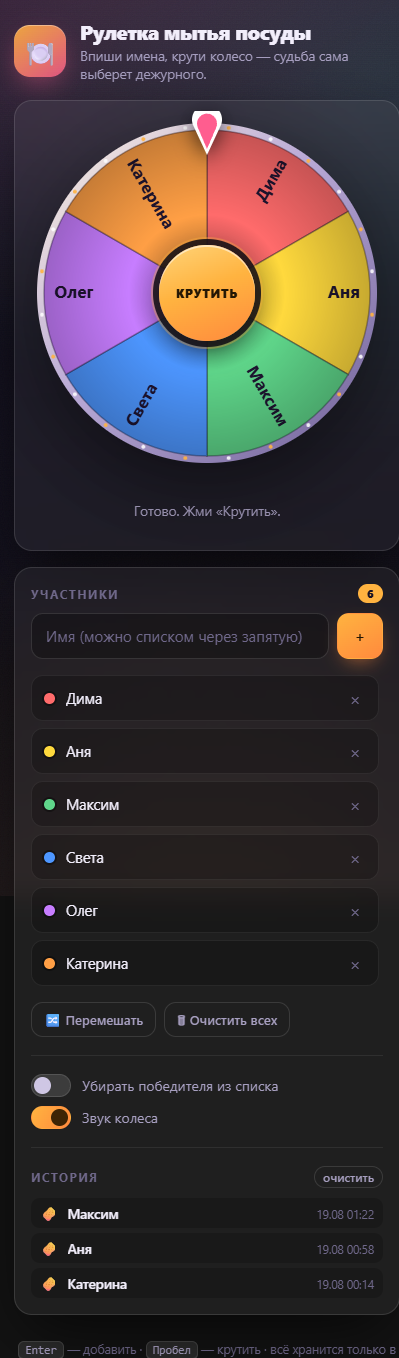
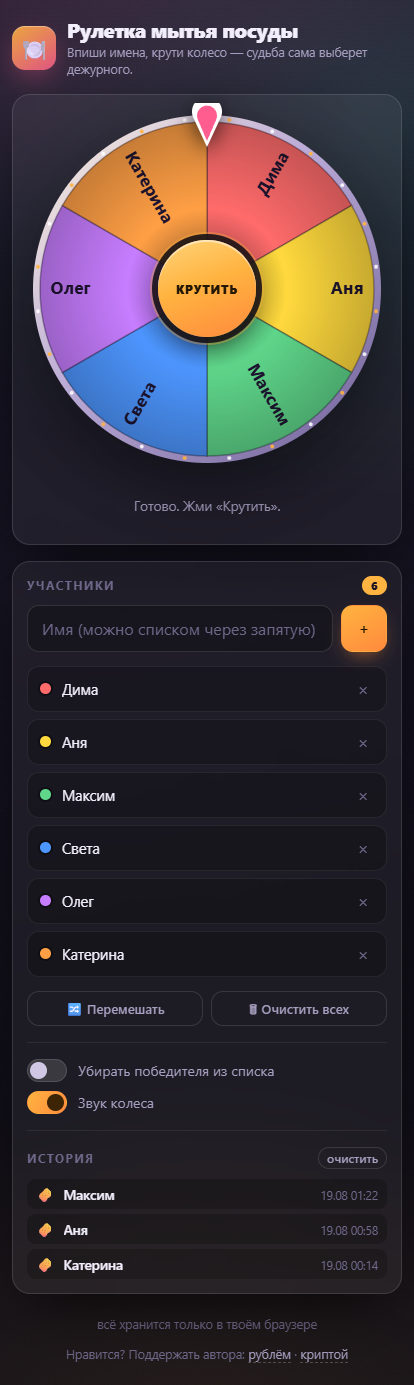
README: разделы про мобильную версию и поддержку
- новый раздел «Мобильная версия»: портрет и альбом, квадратное колесо
  через min(100%,520px,78dvh), тач-цели 44px, сброс залипшего :hover,
  safe-area, поле ввода 16px против зума iOS, запуск с домашнего экрана
- раздел «Поддержка» со ссылками CloudTips и Telegram-кошелёк
- переснят assets/screenshot-mobile.png под новую вёрстку, добавлен
  assets/screenshot-landscape.png для альбомной ориентации
- бейдж размера обновлён до 36 KB, в таблицу кастомизации добавлены
  мобильные брейкпоинты

Заодно в index.html добавлен современный mobile-web-app-capable рядом
с apple-mobile-web-app-capable — Chrome ругался в консоли на устаревший тег.

Claude-Session: https://claude.ai/code/session_01QDBhF91jdbMEvzmgpJz84q

diff --git a/index.html b/index.html
@@ -7,6 +7,7 @@
 <meta name="description" content="Крути рулетку — узнай, кто сегодня моет посуду.">
 <meta name="theme-color" content="#12101c">
 <meta name="color-scheme" content="dark">
+<meta name="mobile-web-app-capable" content="yes">
 <meta name="apple-mobile-web-app-capable" content="yes">
 <meta name="apple-mobile-web-app-status-bar-style" content="black-translucent">
 <meta name="apple-mobile-web-app-title" content="Рулетка">

diff --git a/README.md b/README.md
@@ -7,9 +7,10 @@
 
 [![Демо](https://img.shields.io/badge/демо-открыть%20рулетку-ff9f45?style=for-the-badge&logo=github)](https://dosash.github.io/dish-roulette/)
 
-![Один файл](https://img.shields.io/badge/один%20файл-33%20KB-4d96ff)
+![Один файл](https://img.shields.io/badge/один%20файл-36%20KB-4d96ff)
 ![Зависимостей](https://img.shields.io/badge/зависимостей-0-5fd68a)
 ![Работает офлайн](https://img.shields.io/badge/работает-офлайн-c77dff)
+![Телефон и десктоп](https://img.shields.io/badge/телефон%20и-десктоп-ff5d8f)
 ![Лицензия MIT](https://img.shields.io/badge/лицензия-MIT-ffd93d)
 
 ### → **[dosash.github.io/dish-roulette](https://dosash.github.io/dish-roulette/)** ←
@@ -44,8 +45,8 @@
 ⌨ **Горячие клавиши.** `Enter` — добавить имя, `Пробел` — крутить,
 `Esc` — закрыть окно победителя.
 
-📱 **Телефон и десктоп.** Адаптивная вёрстка, поддержка
-`prefers-reduced-motion` для тех, кому анимации мешают.
+📱 **Полноценный телефон.** Не «сжатый десктоп», а отдельная вёрстка —
+[подробности ниже](#мобильная-версия).
 
 💾 **Ничего не теряется.** Список, настройки и история лежат в `localStorage`
 браузера. Закрыл вкладку — при следующем открытии всё на месте.
@@ -66,11 +67,74 @@
 
 ---
 
+## Мобильная версия
+
+Телефон — главный сценарий: рулетку обычно открывают прямо на кухне. Поэтому
+мобильная вёрстка сделана отдельно, а не получена сжатием десктопной.
+
+<table>
+<tr>
+<td width="42%" valign="top">
+
+**Портрет — одна колонка**
+
+Колесо сверху, под ним участники, настройки и история. Списки на узких
+экранах идут без внутреннего скролла: прокручивается вся страница целиком,
+а не рамка внутри рамки.
+
+</td>
+<td width="58%" valign="top">
+
+<img src="assets/screenshot-mobile.png" alt="Портретная вёрстка на телефоне">
+
+</td>
+</tr>
+</table>
+
+**Альбом — две колонки.** Повернул телефон — колесо уезжает влево, список
+встаёт справа, подзаголовок прячется. Иначе на 390 пикселях высоты пришлось
+бы бесконечно скроллить.
+
+![Альбомная вёрстка на телефоне](assets/screenshot-landscape.png)
+
+**Колесо всегда квадратное и всегда влезает.** Размер считается по меньшей
+из трёх величин: `width: min(100%, 520px, 78dvh)` — то есть ширина
+контейнера, разумный максимум и доля высоты экрана. В альбоме доля
+уменьшается до `62dvh`. Единицы `dvh`, а не `vh` — иначе адресная строка
+Safari при скрытии обрезала бы колесо.
+
+**Тач-цели.** В `@media (pointer:coarse)` кнопки, крестики удаления и
+переключатели вырастают минимум до 44 пикселей — размер, ниже которого палец
+начинает промахиваться.
+
+**Никакого залипшего `:hover`.** На тач-экранах браузер оставляет
+`:hover`-стиль после тапа, и кнопка выглядит нажатой, пока не тапнешь мимо.
+Блок `@media (hover:none)` возвращает всем интерактивным элементам обычный
+вид.
+
+**Мелочи, которые заметны только на телефоне:**
+
+- поле ввода имени — ровно `16px`, иначе iOS зумит страницу при фокусе;
+- `touch-action: manipulation` — нет задержки 300 мс и случайного зума
+  двойным тапом, нет серой вспышки при касании;
+- `env(safe-area-inset-*)` — интерфейс не заезжает под вырез и под домашнюю
+  полосу;
+- подсказки про `Enter` и `Пробел` скрыты на тач-устройствах: там нет
+  клавиатуры, и строка только занимала бы место.
+
+**Можно поставить на домашний экран.** iOS: «Поделиться» → «На экран
+«Домой»». Android: меню Chrome → «Добавить на главный экран». Мета-теги
+`mobile-web-app-capable` и `apple-mobile-web-app-*` убирают адресную строку —
+рулетка запускается как обычное приложение, со своей иконкой и без браузерной
+обвязки.
+
+---
+
 ## Скриншоты
 
-| Победитель | Телефон |
+| Основной экран | Победитель |
 |:---:|:---:|
-| ![Экран победителя](assets/screenshot-winner.png) | ![Мобильная версия](assets/screenshot-mobile.png) |
+| ![Десктоп](assets/screenshot.png) | ![Экран победителя](assets/screenshot-winner.png) |
 
 ---
 
@@ -99,6 +163,7 @@
 | Число оборотов | `turns` в функции `spin()` |
 | Ключ хранилища | константа `LS` |
 | Палитра интерфейса | CSS-переменные в `:root` |
+| Мобильные брейкпоинты | блоки `@media` в конце `<style>` |
 
 ---
 
@@ -108,6 +173,21 @@
 скриптов, ни единого сетевого запроса. Имена участников хранятся только
 в `localStorage` на конкретном устройстве. Чтобы стереть всё — нажать
 «Очистить всех» и «очистить» в истории.
+
+---
+
+## Поддержка
+
+Проект бесплатный, без рекламы и без сбора данных. Если рулетка избавила от
+спора на кухне — можно сказать спасибо автору:
+
+| | |
+|---|---|
+| 💳 **Рублём** | [pay.cloudtips.ru/p/894f4248](https://pay.cloudtips.ru/p/894f4248) |
+| 🪙 **Криптой** | [Telegram-кошелёк](https://t.me/send?start=IVCyYmLsx06p) |
+
+Те же ссылки есть в подвале самой рулетки. Не обязательно — звёздочка на
+репозитории тоже приятна.
 
 ---
 
